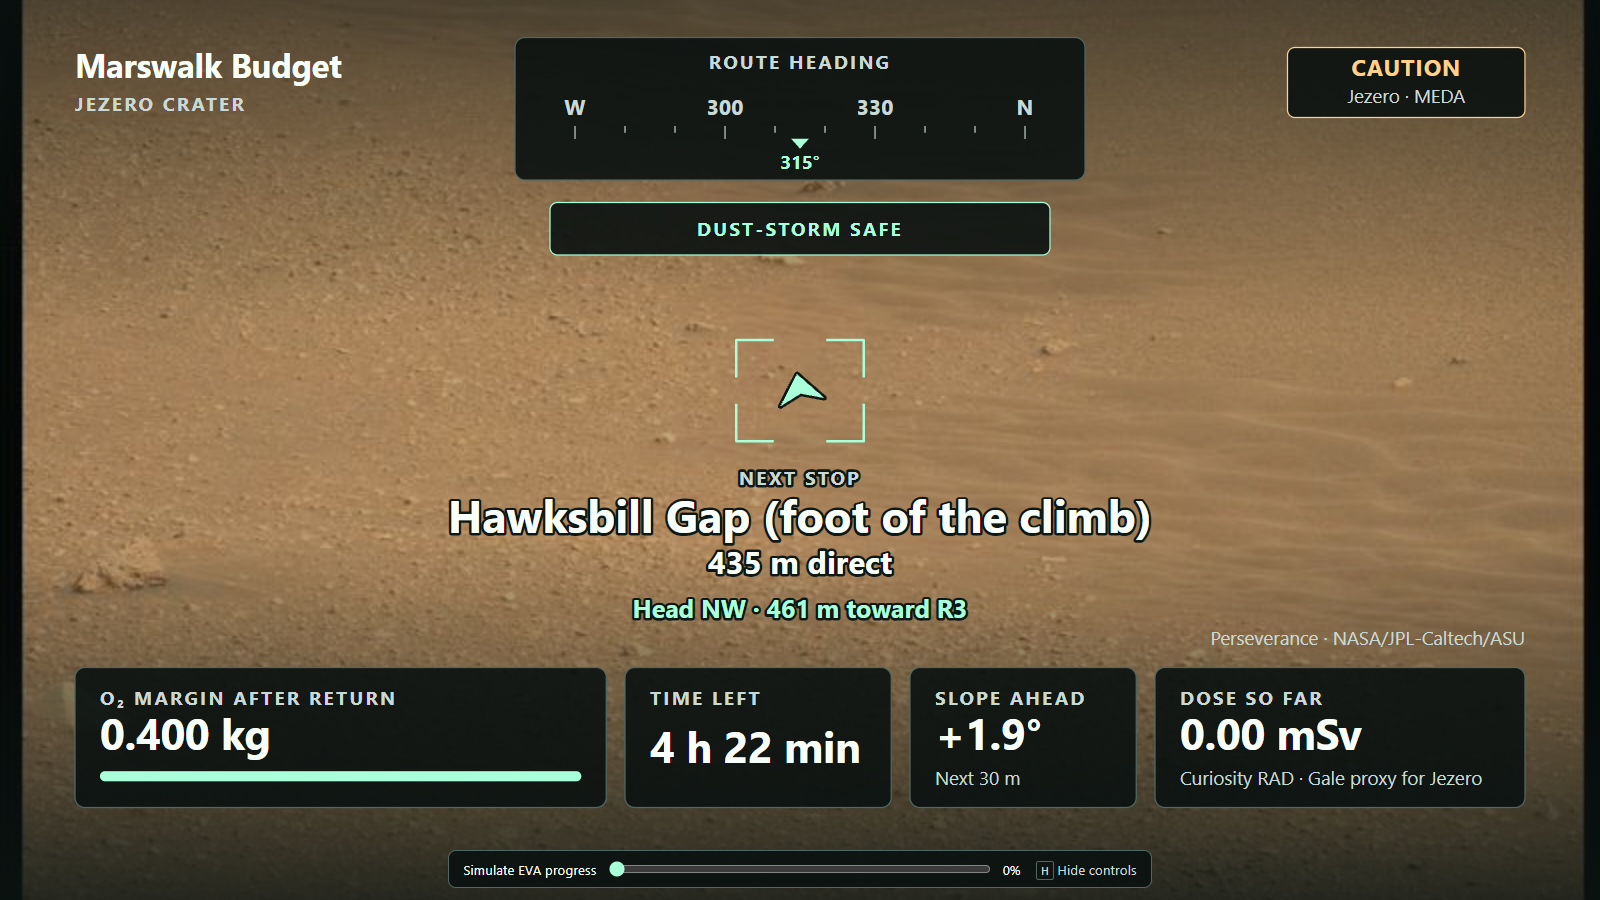
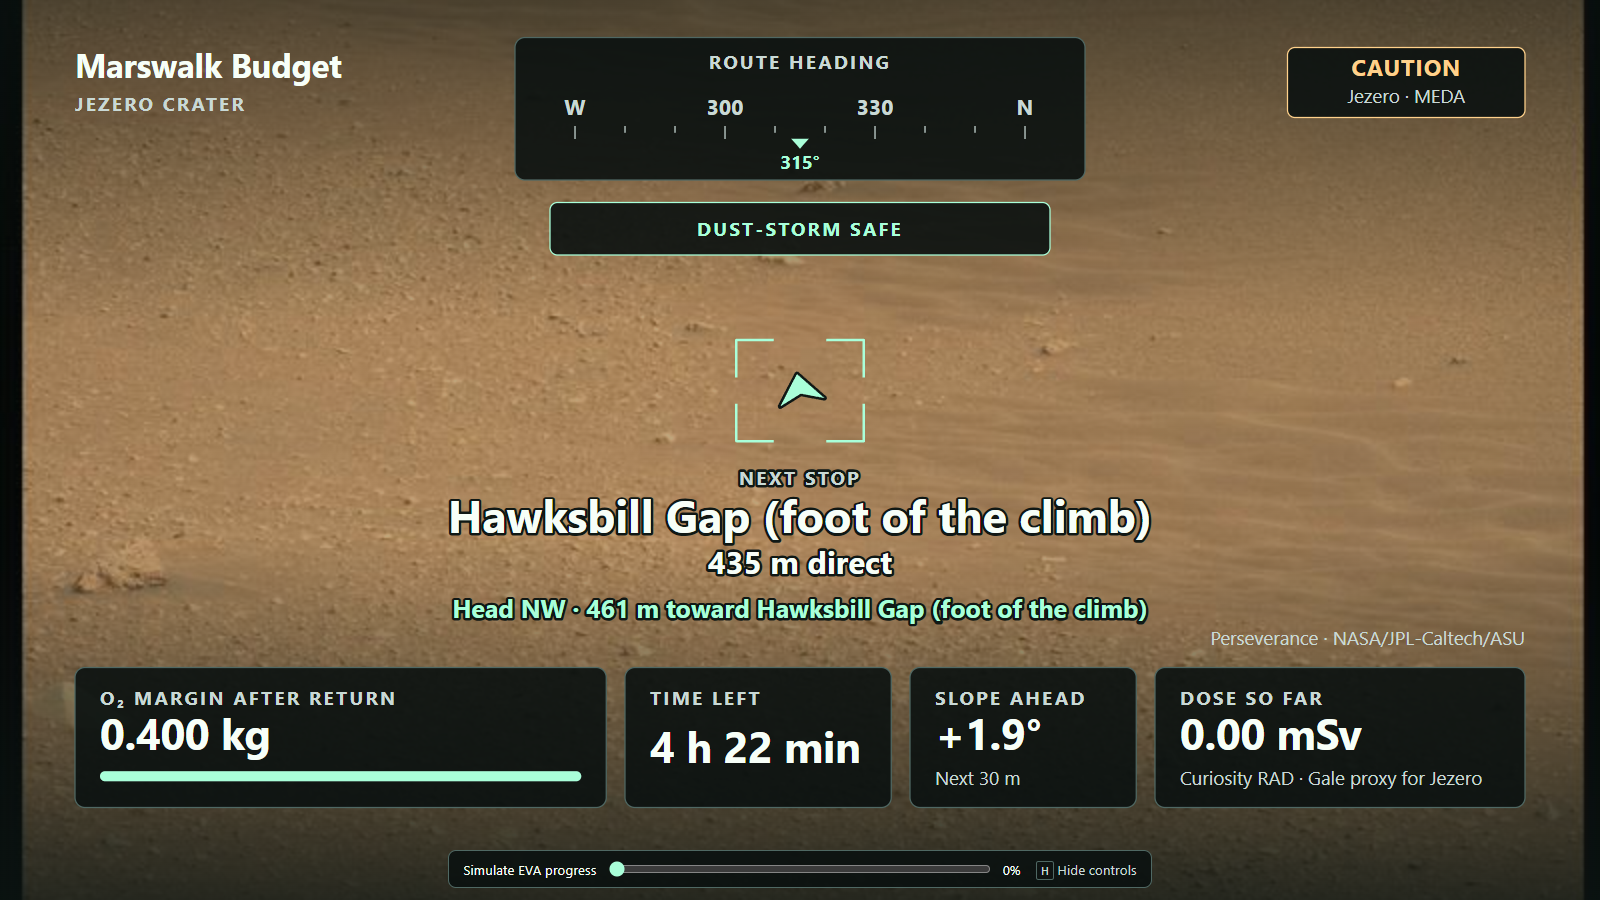
integrate: Open 3D fly-through link; kit HUD/VR retaken with stop names, fly-through shots; About RAD readable copy

Changed region(s): [[0.2812, 0.6533, 0.7188, 0.7156]]

diff --git a/index.html b/index.html
@@ -65,7 +65,8 @@
       <li>Weather: Curiosity REMS and Perseverance MEDA, both led by Spain's Centro de Astrobiología (CAB), from the
         <a href="https://mars.nasa.gov/rss/api/?feed=weather&amp;category=mars2020&amp;feedtype=json" target="_blank" rel="noopener">NASA weather feed</a>; dust optical depth from the Mars Climate Database (LMD / ESA / CNES) can be entered by hand (not filled in this snapshot).</li>
       <li>Solar particle events: <a href="https://ccmc.gsfc.nasa.gov/tools/DONKI/" target="_blank" rel="noopener">NASA CCMC DONKI</a>, detected near Earth and used as a proxy for Mars.</li>
-      <li>Radiation: Curiosity RAD at Gale, <a href="https://doi.org/10.1126/science.1244797" target="_blank" rel="noopener">Hassler et al. 2014</a> (~0.64 mSv/day). Measured at Gale; used as a proxy at Jezero.</li>
+      <li>Radiation: Curiosity RAD at Gale, <a href="https://doi.org/10.1126/science.1244797" target="_blank" rel="noopener">Hassler et al. 2014</a> (~0.64 mSv/day;
+        <a href="https://www.scienceintheclassroom.org/sites/default/files/research-papers/1244797.full_.pdf" target="_blank" rel="noopener">readable copy</a>). Measured at Gale; used as a proxy at Jezero.</li>
     </ul>
 
     <h3>AI assistance</h3>
@@ -106,6 +107,7 @@
           <a id="open-tablet" href="tablet.html" target="_blank" rel="noopener">Open field tablet</a>
           <a id="open-hud" href="hud.html" target="_blank" rel="noopener">Open helmet HUD</a>
           <a id="open-vr" href="hud.html?vr=1" target="_blank" rel="noopener" title="Phone in a Cardboard-style headset: stereo HUD that follows your head">Open helmet view (VR)</a>
+          <a id="open-flyover" href="flyover.html" target="_blank" rel="noopener" title="3D terrain fly-through of this route">Open 3D fly-through</a>
         </div>
         <p class="note" id="view-links-note" hidden>Stops you added on the map stay on this page; the tablet and HUD show the file's stops.</p>
       </section>

diff --git a/js/app.js b/js/app.js
@@ -676,6 +676,7 @@ function updateLinks() {
   $('open-tablet').href = `tablet.html?${qs}`;
   $('open-hud').href = `hud.html?${qs}`;
   $('open-vr').href = `hud.html?${[qs, 'vr=1'].filter(Boolean).join('&')}`; // views lane: Cardboard helmet mode
+  $('open-flyover').href = `flyover.html?${qs}`; // views lane: 3D fly-through, same §7 params
   const hasCustom = state.targets.some((t) => t.custom && state.included.has(t.id));
   $('view-links-note').hidden = !hasCustom;
   updateSiteSwitch();

diff --git a/docs/screenshots/kit/README.md b/docs/screenshots/kit/README.md
@@ -15,9 +15,6 @@ are NASA/JPL MMGIS, stop photos are Curiosity (NASA/JPL-Caltech/MSSS) and Persev
 at Jezero. Conditions named "demo" or "simulated" and the `data=demo` terrain are synthetic and
 labelled so on screen. No NASA logos or mission insignia appear.
 
-Known gap: the HUD and helmet view in these shots name the next stop by id ("toward G4"); the views
-lane has fixed that on its branch, so retake `26`, `31`, `33`, `phone-05` and `vr-*` after it merges.
-
 ## Console (desktop)
 
 | File | Caption |
@@ -61,6 +58,14 @@ lane has fixed that on its branch, so retake `26`, `31`, `33`, `phone-05` and `v
 | `desktop-32-tablet-jezero.png` | Field tablet at Jezero. |
 | `desktop-33-hud-jezero.png` | Helmet HUD at Jezero (dose from Curiosity RAD at Gale, used as a proxy). |
 
+## 3D fly-through (desktop)
+
+| File | Caption |
+|---|---|
+| `desktop-34-flyover-gale.png` | 3D fly-through at Gale: chase camera over the HiRISE colour mosaic draped on the 1 m elevation (2× vertical exaggeration), named stops, out-of-sight stretches dimmed. |
+| `desktop-35-flyover-jezero.png` | 3D fly-through at Jezero over shaded relief from the HiRISE elevation; red marks slopes over 20°. |
+| `desktop-36-flyover-gale-overview.png` | The whole Gale walk from above before playback; drag to orbit, scroll to zoom. |
+
 ## Phone (414 × 896)
 
 | File | Caption |
@@ -83,4 +88,4 @@ lane has fixed that on its branch, so retake `26`, `31`, `33`, `phone-05` and `v
 Start `npm run serve`, then load each URL in Chrome at the sizes above: `/`,
 `/?dust=1&solar=1&kit=1`, `/?data=real`, `/?data=real&dust=1&solar=1&kit=1`, `/?data=demo&kit=1`,
 `/?tour=1` (arrow keys step the tour), `tablet.html?data=…`, `hud.html?data=…` and
-`hud.html?data=…&vr=1&play=30` (press "Enter helmet view").
+`hud.html?data=…&vr=1&play=30` (press "Enter helmet view") and `flyover.html?data=…&play=30`.
